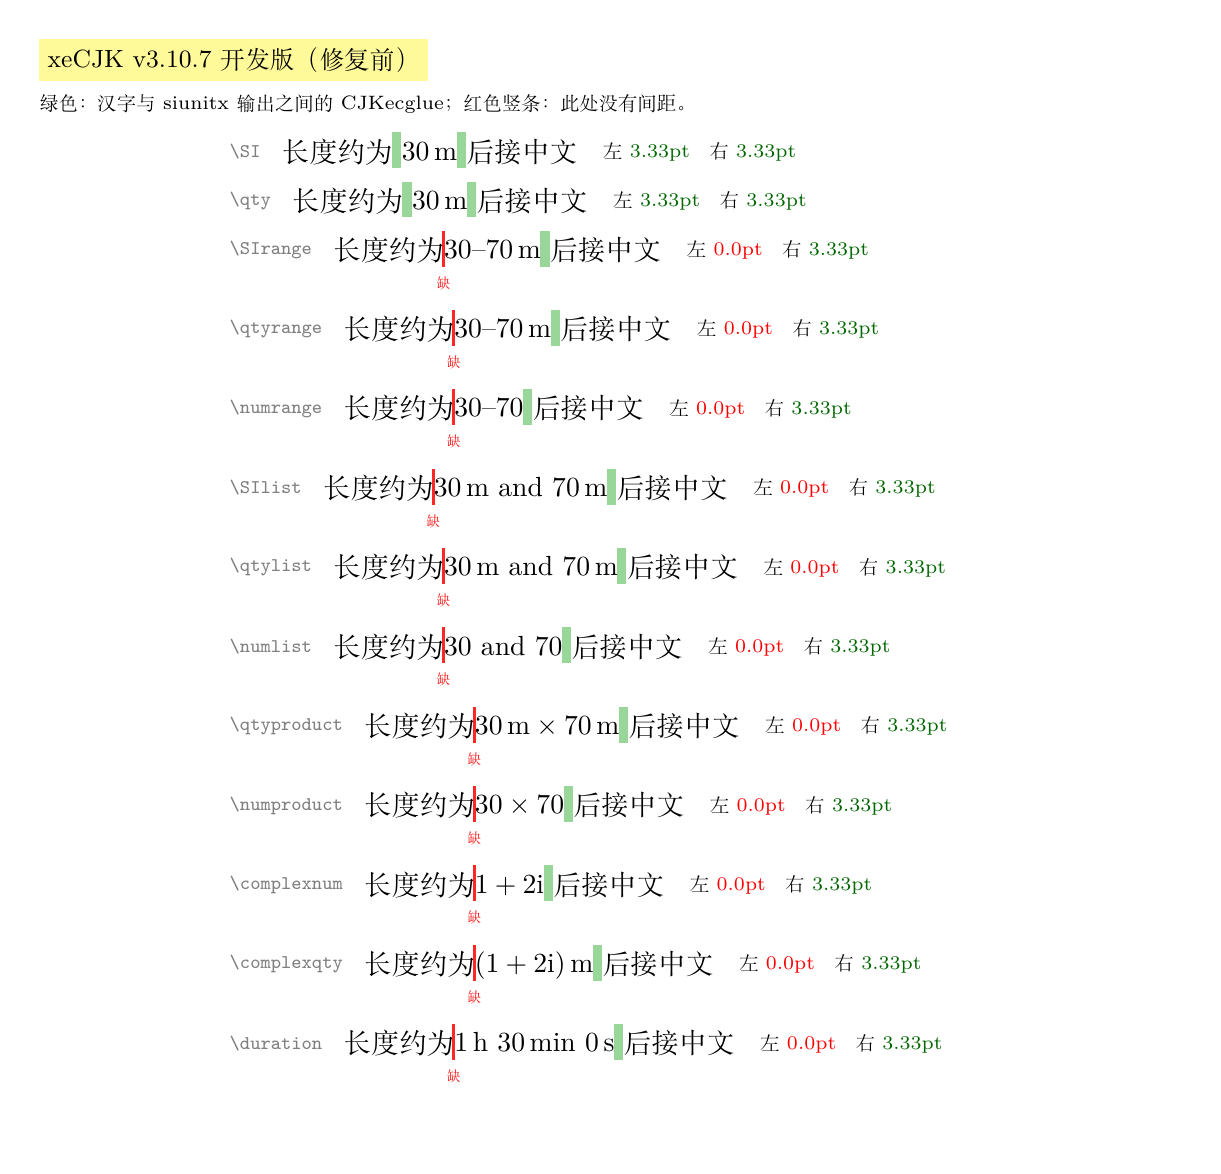
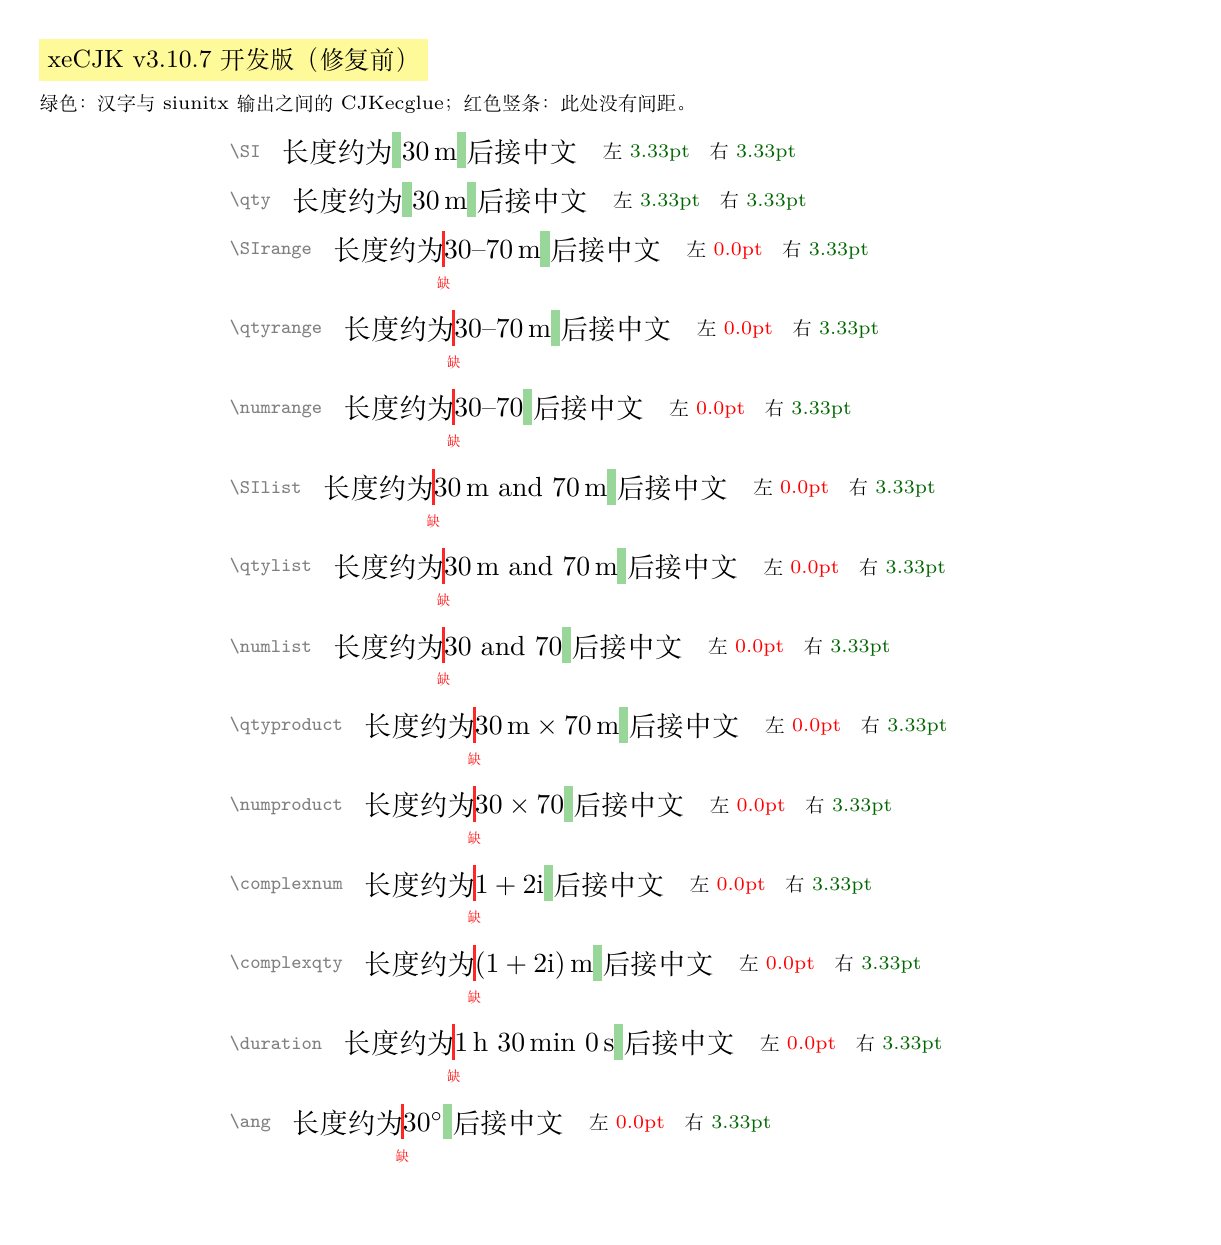
issues/1092: 对比图补 \ang 一行

diff --git a/issues/1092/issue1092-confirm.tex b/issues/1092/issue1092-confirm.tex
@@ -1,5 +1,5 @@
 \documentclass{article}
-\usepackage[paperwidth=15.5cm,paperheight=14.9cm,margin=5mm]{geometry}
+\usepackage[paperwidth=15.5cm,paperheight=15.8cm,margin=5mm]{geometry}
 \usepackage{xeCJK}
 \setCJKmainfont{FandolSong-Regular.otf}
 \usepackage{siunitx,tikz,xcolor}
@@ -39,7 +39,7 @@
     \node[anchor=east,font=\scriptsize\ttfamily,text=gray] at (-4,3) {#1};
   \end{tikzpicture}\par\smallskip}
 \begin{document}
-\setbox0=\hbox{\SI{1}{m}\SIrange{1}{2}{m}\qtyrange{1}{2}{m}\numrange{1}{2}\SIlist{1;2}{m}\qtylist{1;2}{m}\numlist{1;2}\qtyproduct{1x2}{m}\numproduct{1x2}\complexnum{1+2i}\complexqty{1+2i}{m}\duration{1;2;3}$x$}
+\setbox0=\hbox{\SI{1}{m}\SIrange{1}{2}{m}\qtyrange{1}{2}{m}\numrange{1}{2}\SIlist{1;2}{m}\qtylist{1;2}{m}\numlist{1;2}\qtyproduct{1x2}{m}\numproduct{1x2}\complexnum{1+2i}\complexqty{1+2i}{m}\duration{1;2;3}\ang{1}$x$}
 \colorbox{yellow!40}{\small xeCJK \LABEL}\par\smallskip
 {\scriptsize 绿色：汉字与 siunitx 输出之间的 CJKecglue；红色竖条：此处没有间距。}\par\medskip
 \hspace*{2.3cm}\begin{minipage}{12.2cm}
@@ -56,5 +56,6 @@
 \row{\textbackslash complexnum}{\complexnum{1+2i}}
 \row{\textbackslash complexqty}{\complexqty{1+2i}{\metre}}
 \row{\textbackslash duration}{\duration{1;30;0}}
+\row{\textbackslash ang}{\ang{30}}
 \end{minipage}
 \end{document}
